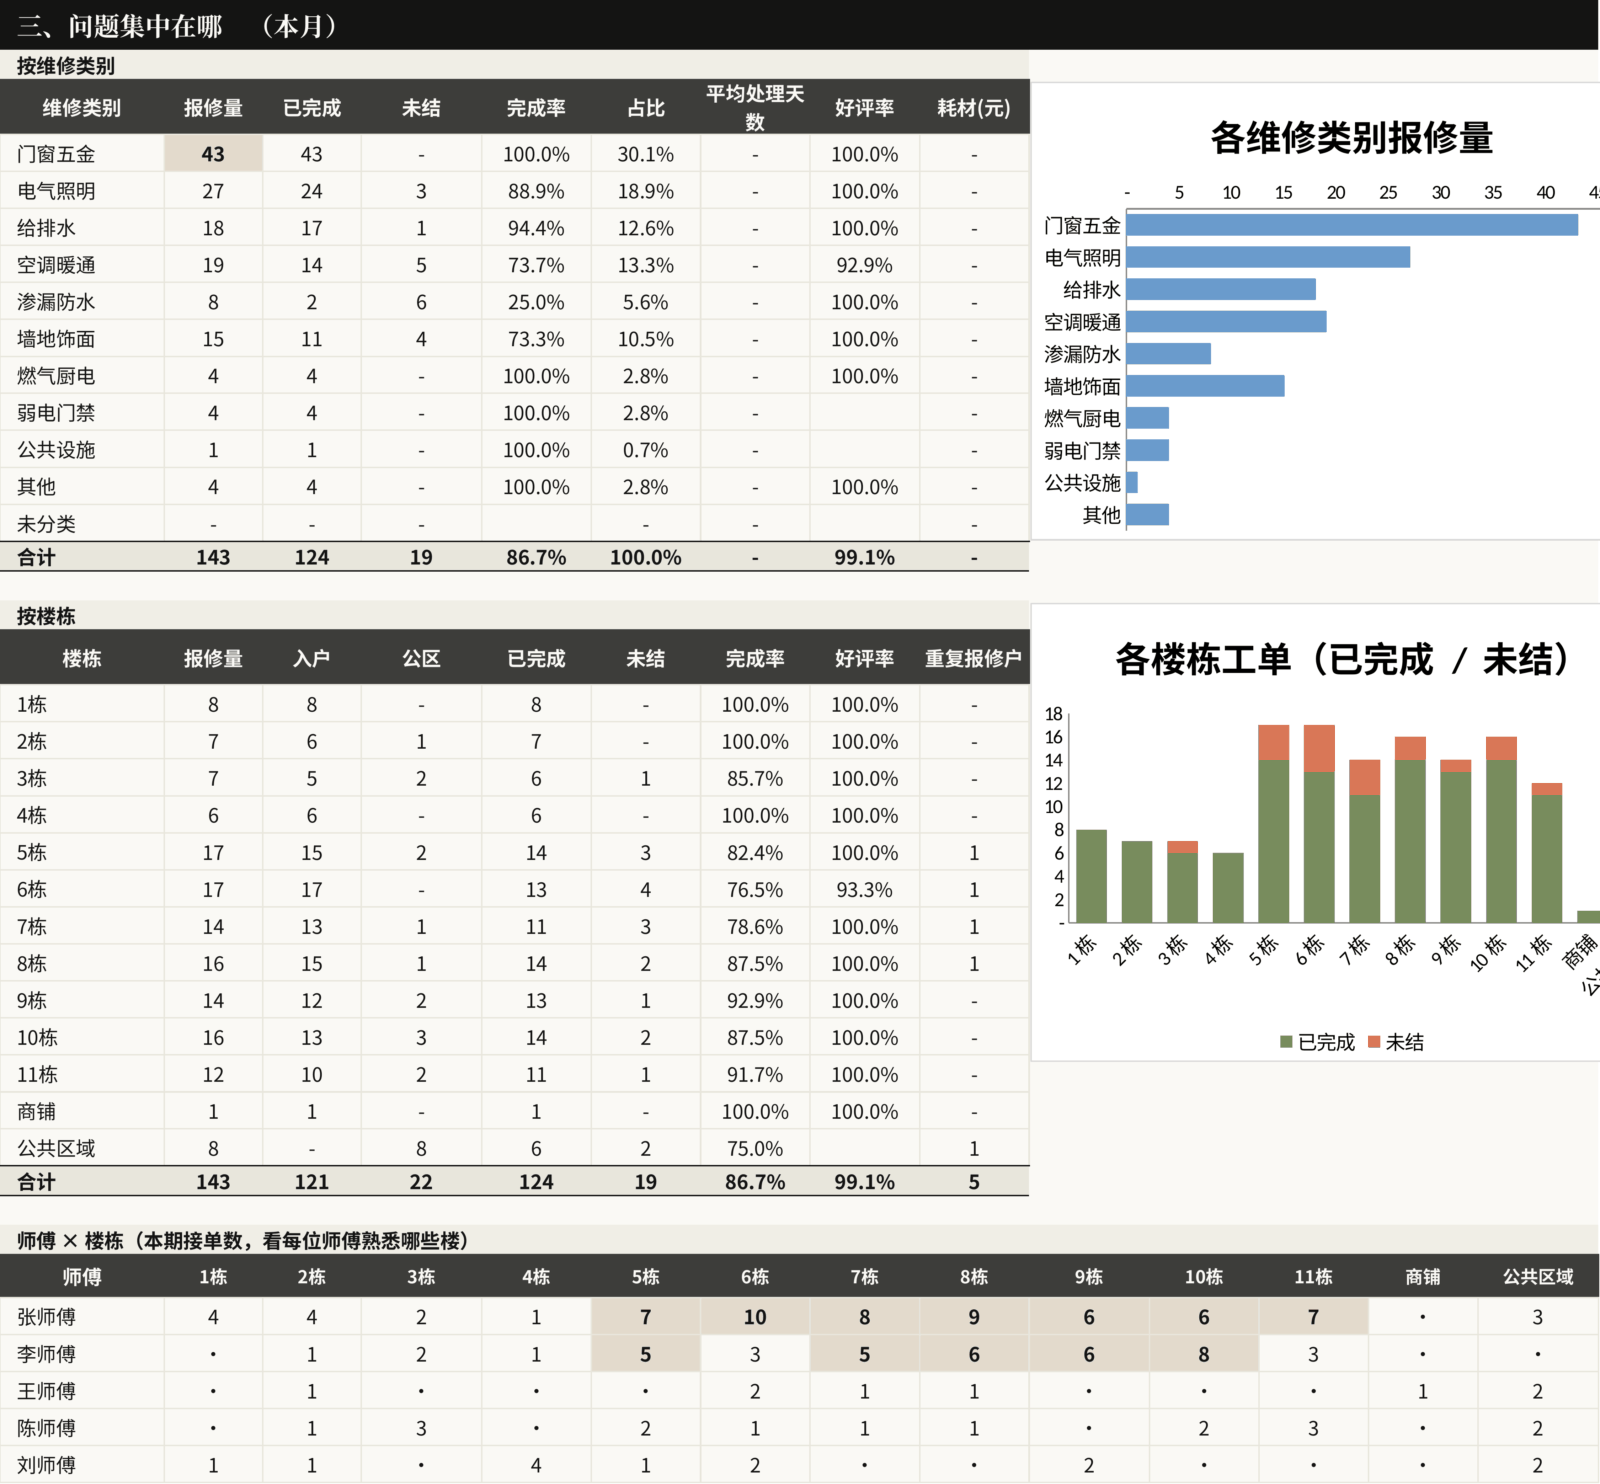
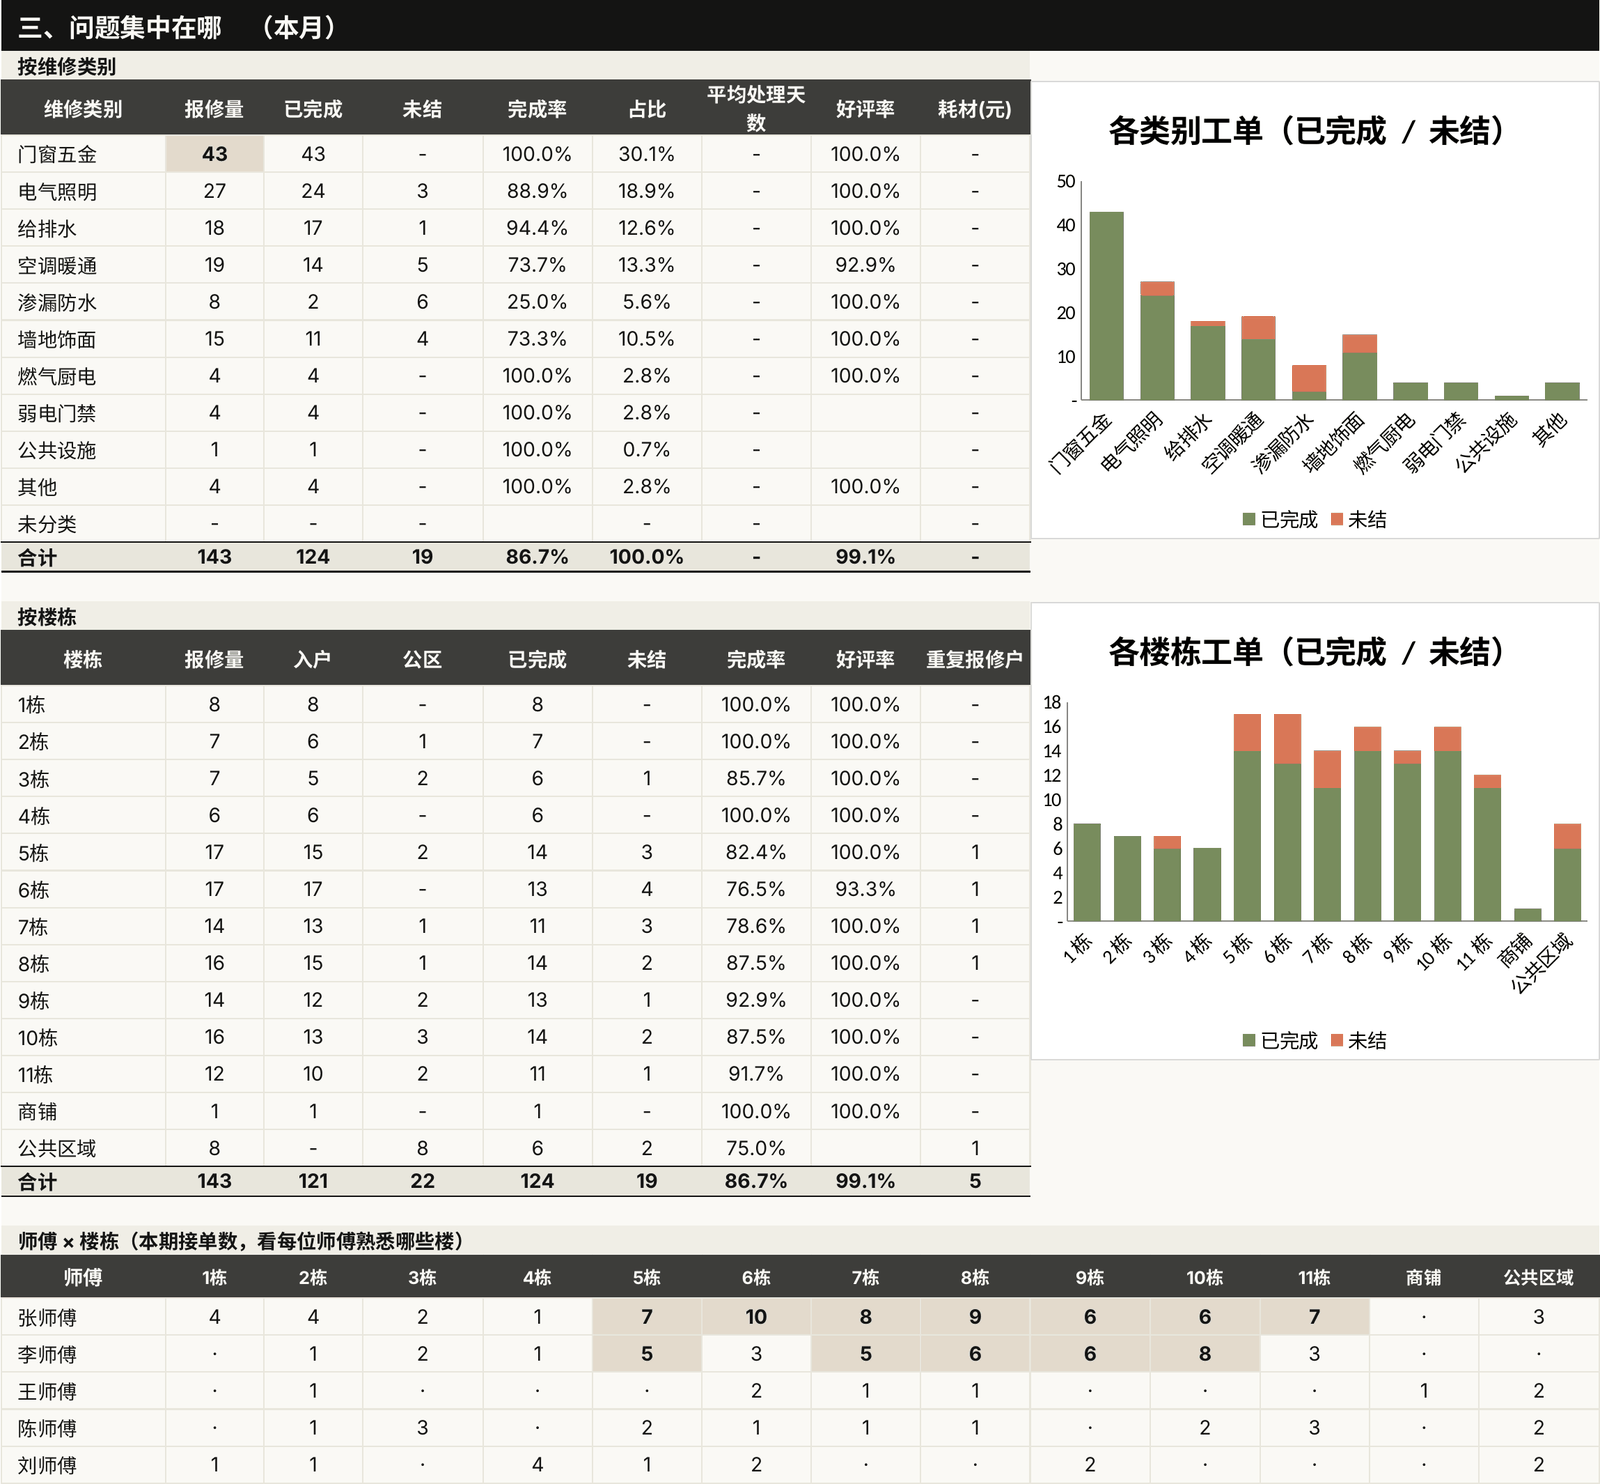
维修台账：各维修类别图改成和楼栋图一样的堆叠柱状图（已完成 / 未结），两张图收进打印区不再被裁切，重拍仪表盘第三部分截图
Claude-Session: https://claude.ai/code/session_01SA9Vp2dbYnYTrATy5BCgWd

diff --git a/works/repair-ledger/index.html b/works/repair-ledger/index.html
@@ -127,7 +127,7 @@ figcaption{margin-top:10px;font-size:13px;color:var(--ink2)}
       <div><dt>公式</dt><dd>1,478 条<span class="nw">（上一版 24,846 条）</span></dd></div>
     </dl>
     <div class="get">
-      <p><a class="btn" href="repair-ledger-sample.xlsx?v=20261025w" download="工程维修台账（示例）.xlsx"><svg viewBox="0 0 16 16" aria-hidden="true"><path d="M8 2v8m-3.5-3.5L8 10l3.5-3.5M3 13h10"/></svg>下载示例文件</a></p>
+      <p><a class="btn" href="repair-ledger-sample.xlsx?v=20261025x" download="工程维修台账（示例）.xlsx"><svg viewBox="0 0 16 16" aria-hidden="true"><path d="M8 2v8m-3.5-3.5L8 10l3.5-3.5M3 13h10"/></svg>下载示例文件</a></p>
       <p class="note">示例文件已脱敏：师傅姓名、房号和备注里的住户信息都换成了虚构内容。统计基准日在【设置】里，示例固定为 2025 年 5 月 7 日；清空即按今天计算。</p>
     </div>
   </section>
@@ -160,7 +160,7 @@ figcaption{margin-top:10px;font-size:13px;color:var(--ink2)}
       <figcaption>仪表盘第一、二部分（示例数据，本月）<span class="swipe">，左右滑动查看</span></figcaption>
     </figure>
     <figure>
-      <div class="scroller"><div class="shot"><img src="dashboard-2.png?v=20261025v" width="1600" height="1484" loading="lazy" alt="仪表盘第三部分截图：按维修类别和按楼栋的统计表及条形图、柱状图，以及师傅乘楼栋的接单矩阵"></div></div>
+      <div class="scroller"><div class="shot"><img src="dashboard-2.png?v=20261025x" width="1600" height="1484" loading="lazy" alt="仪表盘第三部分截图：按维修类别和按楼栋的统计表，各配一张已完成和未结的堆叠柱状图，以及师傅乘楼栋的接单矩阵"></div></div>
       <figcaption>仪表盘第三部分：问题集中在哪（示例数据，本月）<span class="swipe">，左右滑动查看</span></figcaption>
     </figure>
   </section>
